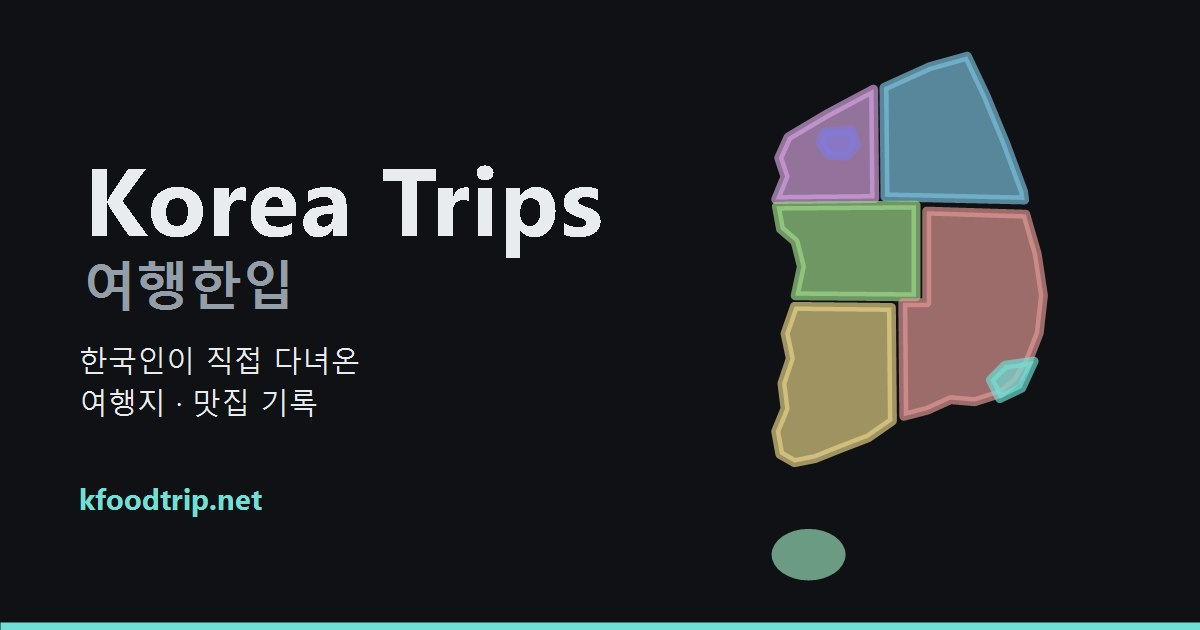
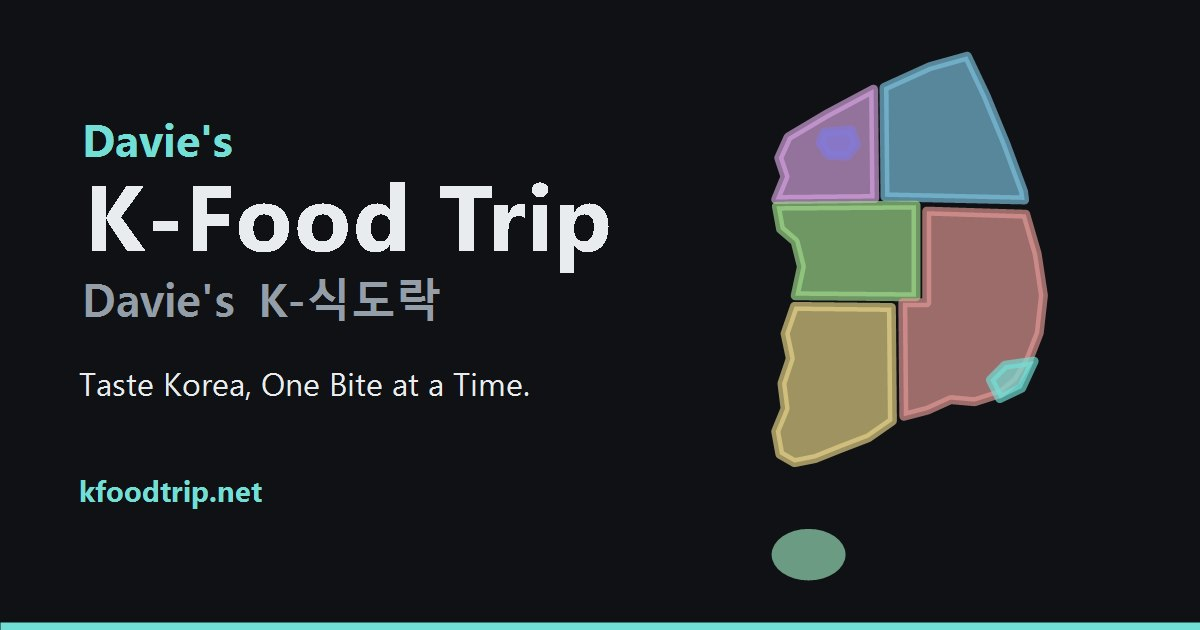
Davie's K-Food Trip

Changed region(s): [[0.0617, 0.181, 0.5242, 0.5127], [0.0617, 0.5429, 0.4317, 0.6635], [0.0617, 0.754, 0.2158, 0.8143]]

diff --git a/travel-site/content/i18n.js b/travel-site/content/i18n.js
@@ -9,7 +9,7 @@
 module.exports = {
 
   ko: {
-    tagline:     '소문난 곳, 끌리는 곳 — 가봤고, 먹어봤고, 적었습니다',
+    tagline:     '한 입씩 맛보는 한국',
     description: '한국인이 소문난 곳과 끌리는 곳을 직접 찾아가 정리한 기록입니다. 동선, 예산, 교통, 붐비는 시간대까지 가기 전에 알면 좋은 정보 위주입니다.',
     siteDesc:    '한국의 여행지와 맛집 — 소문난 곳과 끌리는 곳을 지역별로 정리했습니다.',
 
@@ -184,7 +184,7 @@ module.exports = {
   },
 
   en: {
-    tagline:     'Korea — the known spots and the tempting ones: went, ate, wrote it down',
+    tagline:     'Taste Korea, One Bite at a Time.',
     description: 'Written by a Korean who goes to the places people talk about — and the ones that just look worth it. Routes, budgets, transit, and when to avoid the crowds.',
     siteDesc:    "Korea's places and food — the well-known and the tempting — organised by region.",
 
@@ -359,7 +359,7 @@ module.exports = {
   },
 
   ja: {
-    tagline:     '韓国 — 評判の店と、惹かれた店。行って、食べて、書きました',
+    tagline:     '韓国を、ひと口ずつ。',
     description: '韓国人が評判の場所と、気になった場所に実際に足を運んでまとめています。ルート、予算、交通、混む時間帯まで、行く前に知っておきたいことを中心に。',
     siteDesc:    '地域別にまとめた韓国の観光地とグルメ — 評判の場所と、惹かれた場所。',
 
@@ -534,7 +534,7 @@ module.exports = {
   },
 
   zh: {
-    tagline:     '韓國 — 有名的和心動的，都去了、吃了、寫下來',
+    tagline:     '一口一口，嚐遍韓國',
     description: '由韓國在地人親自走訪 —— 有名的地方，還有自己心動想去的地方。路線、預算、交通、避開人潮的時間，都是出發前值得知道的事。',
     siteDesc:    '按地區整理的韓國景點與美食 —— 有名的，還有讓人心動的。',
 

diff --git a/travel-site/site.config.js b/travel-site/site.config.js
@@ -7,12 +7,12 @@ module.exports = {
   /* ---- 기본 ------------------------------------------------------------
      name 은 언어별로 다르게 쓸 수 있습니다.
      영어 페이지에 한글 로고가 뜨면 관광객은 읽지 못하므로 분리했습니다.
-     (전 언어 공통으로 쓰려면 name: 'Korea Trips' 처럼 문자열 하나로 두면 됩니다) */
+     (전 언어 공통으로 쓰려면 name: "Davie's K-Food Trip" 처럼 문자열 하나로 두면 됩니다) */
   name: {
-    ko: '여행한입',
-    en: 'Korea Trips',
-    ja: 'Korea Trips',
-    zh: 'Korea Trips'
+    ko: "Davie's K-식도락",
+    en: "Davie's K-Food Trip",
+    ja: "Davie's K-Food Trip",
+    zh: "Davie's K-Food Trip"
   },
 
   // ★ 끝에 / 붙이지 마세요
@@ -396,7 +396,7 @@ module.exports = {
      됩니다. 늘어나도 계속 참인 표현을 쓰려고 내림값만 둡니다.
      2026-08-23 확인: 레벨 6 · 사진 102장 · 조회수 216,779회               */
   author: {
-    name:            'Davie 여행한입',
+    name:            'Davie',
     mapsProfile:     'https://www.google.com/maps/contrib/108511658203720708025',
     guideLevel:      6,
     photoViewsFloor: 210000

diff --git a/travel-site/static/assets/style.css b/travel-site/static/assets/style.css
@@ -1,5 +1,5 @@
 /* ==========================================================================
-   Korea Trips — 전체 스타일
+   Davie's K-Food Trip — 전체 스타일
    사이트 크롬은 무채색으로 두고, 색은 '지역'만 갖습니다.
    지역색(--region-seoul 등)은 build.js 가 site.config.js 를 읽어
    각 페이지 <head> 에 심어줍니다. 여기서는 --r 로 받아 씁니다.
@@ -117,7 +117,10 @@ img{max-width:100%;display:block;}
   border-bottom:1px solid var(--line);
 }
 .header-inner{display:flex;align-items:center;gap:14px;height:62px;}
-.logo{font-weight:800;font-size:18px;letter-spacing:-.03em;}
+.logo{display:flex;flex-direction:column;justify-content:center;line-height:1.05;text-decoration:none;color:inherit;}
+.logo-name{font-weight:800;font-size:18px;letter-spacing:-.03em;color:var(--ink);}
+.logo-tag{font-size:10.5px;font-weight:500;letter-spacing:0;color:var(--ink-mute);margin-top:2px;white-space:nowrap;}
+@media (max-width:560px){ .logo-tag{display:none;} }
 
 .langs{
   margin-left:auto;display:flex;align-items:center;gap:2px;

diff --git a/travel-site/build.js b/travel-site/build.js
@@ -1073,7 +1073,7 @@ function homeJsonLd(code) {
       {
         '@type': 'Organization',
         '@id': `${SITE_URL}/#org`,
-        name: 'Korea Trips',
+        name: siteName(code),
         url: `${SITE_URL}/`,
         logo: { '@type': 'ImageObject', url: `${SITE_URL}/${site.ogImage}` },
         sameAs: [site.author && site.author.mapsProfile].filter(Boolean)
@@ -1638,6 +1638,7 @@ function renderPage(o) {
     ogImageW:    (jpegSize(o.ogImage || site.ogImage) || { w: 1200 }).w,
     ogImageH:    (jpegSize(o.ogImage || site.ogImage) || { h: 630 }).h,
     siteName:    escapeHtml(siteName(o.code)),
+    slogan:      escapeHtml(I18N[o.code].tagline),      // 헤더 로고 밑 한 줄
     base:        base,                                  // 최상단까지 (assets 용)
     lbase:       base + localeDir(o.code),              // 그 언어의 최상단까지 (페이지 링크용)
     homeHref:    linkTo(base + localeDir(o.code)),

diff --git a/travel-site/templates/base.html b/travel-site/templates/base.html
@@ -55,7 +55,7 @@
 
 <header class="site-header">
   <div class="wrap header-inner">
-    <a class="logo" href="{{homeHref}}">{{siteName}}</a>
+    <a class="logo" href="{{homeHref}}"><span class="logo-name">{{siteName}}</span><span class="logo-tag">{{slogan}}</span></a>
     {{langs}}
     <button class="theme-btn" type="button" aria-label="{{themeToggle}}" title="{{themeToggle}}">
       <span class="theme-sun" aria-hidden="true">☀</span><span class="theme-moon" aria-hidden="true">🌙</span>

diff --git a/travel-site/content/pages/ja/about.md b/travel-site/content/pages/ja/about.md
@@ -1,10 +1,12 @@
 ---
 title: このサイトについて
 description: 実際に訪れてまとめた韓国の旅行・グルメ情報。旅行の計画を立てる方のためのサイトです。
-updated: 最終更新 2026年8月17日
+updated: 最終更新 2026年9月7日
 ---
 
 **{{siteName}}** は個人が運営する小さなサイトです。掲載しているのはすべて実際に訪れた場所で、まとめサイトからの転載はありません。
+
+2026年9月、サイト名を **「여행한입（Korea Trips）」から「Davie's K-Food Trip」** に変更しました。アドレス（kfoodtrip.net）とこれまでの記事はそのままです。
 
 ## 何が書いてあるか
 

diff --git a/travel-site/content/pages/ko/about.md b/travel-site/content/pages/ko/about.md
@@ -1,10 +1,12 @@
 ---
 title: 사이트 소개
 description: 국내 여행지와 맛집을 직접 다녀와 정리하는 개인 정보 사이트입니다. 운영 원칙과 정보 작성 기준을 안내합니다.
-updated: 최종 수정일 2026년 8월 16일
+updated: 최종 수정일 2026년 9월 7일
 ---
 
 **{{siteName}}**은 국내 여행지와 지역 맛집을 직접 다녀온 뒤 정리해서 올리는 개인 운영 정보 사이트입니다.
+
+2026년 9월, 사이트 이름을 **"여행한입"에서 "Davie's K-식도락"**으로 바꿨습니다. 주소(kfoodtrip.net)와 지금까지의 글은 그대로입니다.
 
 ## 어떤 글을 쓰나요
 

diff --git a/travel-site/content/pages/en/about.md b/travel-site/content/pages/en/about.md
@@ -1,10 +1,12 @@
 ---
 title: About
 description: First-hand guides to places and food across Korea, written for people planning an actual trip.
-updated: Last updated 17 August 2026
+updated: Last updated 7 September 2026
 ---
 
 **{{siteName}}** is a small, independently run site. Every guide here comes from an actual visit — no aggregated listings, no reposted content.
+
+In September 2026 the site was renamed from **"여행한입 (Korea Trips)" to "Davie's K-Food Trip"**. The address (kfoodtrip.net) and all existing writing are unchanged.
 
 ## What you'll find here
 

diff --git a/travel-site/content/pages/zh/about.md b/travel-site/content/pages/zh/about.md
@@ -1,10 +1,12 @@
 ---
 title: 關於本站
 description: 親自走過後整理的韓國旅遊與美食指南，寫給真正在規劃行程的人。
-updated: 最後更新 2026年8月17日
+updated: 最後更新 2026年9月7日
 ---
 
 **{{siteName}}** 是一個個人經營的小站。這裡的每一篇都來自實際到訪，沒有轉載，也沒有從彙整網站抄來的內容。
+
+2026 年 9 月，網站名稱從 **「여행한입（Korea Trips）」改為「Davie's K-Food Trip」**。網址（kfoodtrip.net）和既有內容維持不變。
 
 ## 這裡寫什麼
 

diff --git a/travel-site/README.md b/travel-site/README.md
@@ -1,4 +1,4 @@
-# Korea Trips — 운영 안내서
+# Davie's K-Food Trip — 운영 안내서
 
 Markdown 파일로 글을 쓰면 Cloudflare Pages가 다국어 정적 사이트를 만들어 배포합니다.
 
